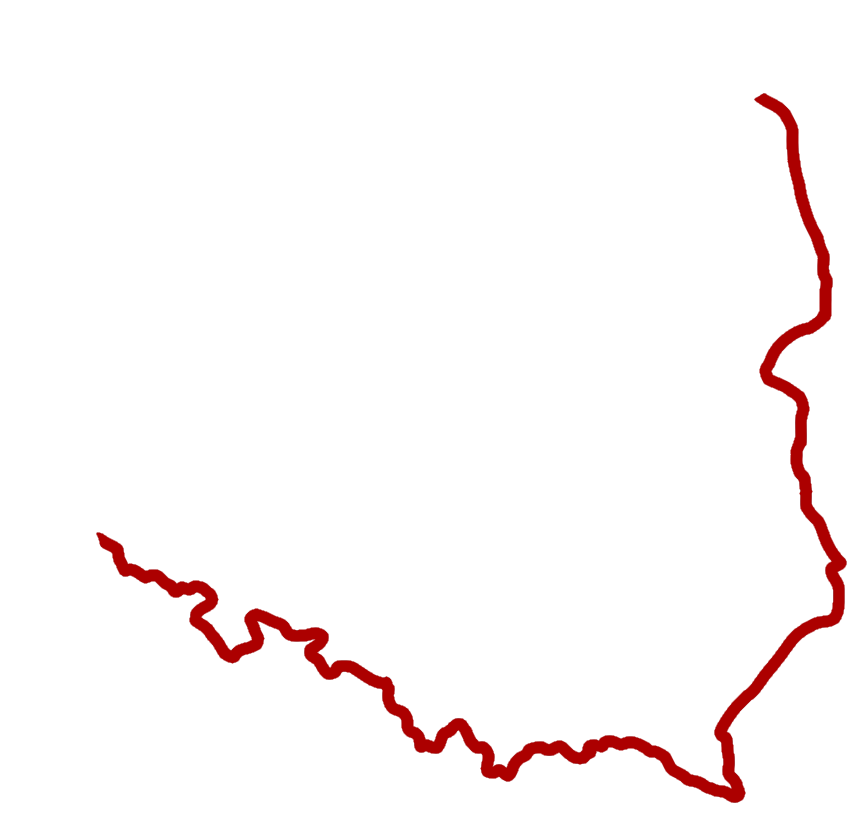
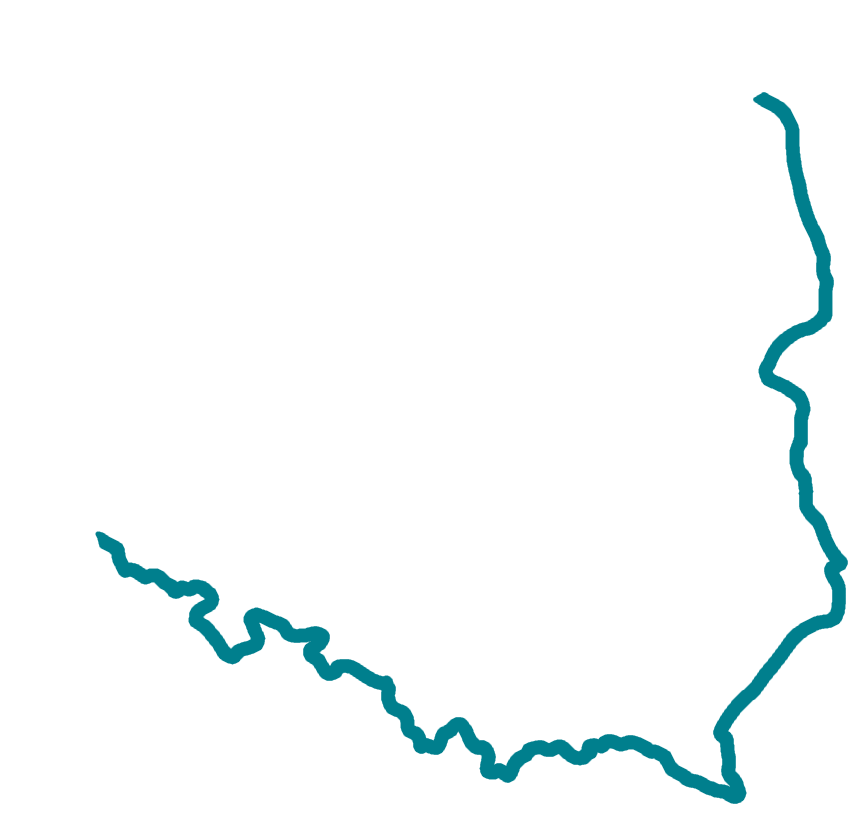
hello

Changed region(s): [[0.0915, 0.0921, 1.0, 1.0]]

diff --git a/src/views/Home.vue b/src/views/Home.vue
@@ -1,8 +1,77 @@
 <template>
   <div class="home">
-    <div class="itsme">DZIAŁA <ic icon="star" /></div>
-    <!-- <img alt="Vue logo" src="../assets/logo.png" /> -->
-    <!-- <HelloWorld msg="Welcome to Your Vue.js + TypeScript App" /> -->
+    <div class="hero">
+      <div class="herocont">
+        <div class="desccont">
+          <div class="desc">
+            <div class="ifflex">
+              <div class="red">Masz problemy {{}}</div>
+              <div class="red">z nauką?</div>
+            </div>
+            <div class="ifflex">
+              <div>
+                Tworzymy grupę świadczącą wątpliwej jakości korki w całej
+                Polsce. {{}}
+              </div>
+              <div>
+                Dla nas nauczenie Ciebie to jak napad na bank - codzienność.
+              </div>
+            </div>
+          </div>
+        </div>
+      </div>
+    </div>
+    <div class="check">
+      <div class="about">
+        <span class="aboutbigstudent">Jesteśmy grupą studentów</span>, których
+        łączy jeden wspólny cel - rozprowadzać edukację w każdej możliwej
+        ilości. Nie znajdziesz tu sztywniaków, którzy odhaczą lekcję i zaraz
+        przepuszczą twój hajs na piwo. Nauka jest dla nas czymś więcej niż
+        zarobkiem, jest pasją. Mamy luźną atmosferę i
+        <span class="remove">kompetentnych</span>
+        ludzi, którzy wiedzą jak się za naukę zabrać.
+      </div>
+      <div class="about right">
+        Większość z nas napisała nasze
+        <span class="aboutbig"> matury na ponad 90%</span>
+        dostając się na najbardziej oblegane uczelnie w Polsce. Politechnika
+        Warszawska, Uniwersytet Jagielloński czy AGH to tylko początek naszych
+        wpływów. Prędzej czy później obejmiemy działaniem całą Polskę i każdą
+        uczelnię.
+      </div>
+      <div class="about">
+        Nie tworzymy korporacji - my
+        <span class="aboutbig">działamy razem</span>. Możesz w każdej chwili się
+        do nas odezwać z prośbą o pomoc czy śmiesznym memem. Jesteśmy do twojej
+        dyspozycji. Nie jako smutni panowie w garniturach, których trzeba
+        traktować jak profesorów. Jesteśmy żywymi, młodymi i dynamicznymi
+        ludźmi, takimi jak ty.
+      </div>
+      <div class="about">
+        I co najważniejsze, nie zedrzemy z ciebie wszystkich pieniędzy. Nawet
+        mafia ma swoje zasady.
+      </div>
+      <!-- <div class="whatabout">
+        <div>To jak będzie?</div>
+      </div> -->
+
+      <!-- <div class="button">Sprawdź naszą ofertę</div>
+      <div class="button">Omów się na korki</div>
+      <div class="button">Poznaj naszych korepetytorów</div> -->
+    </div>
+    <div class="hero hero2">
+      <div class="herocont">
+        <div>
+          <div class="desccont big">
+            Nie czekaj, napisz do nas już dziś!
+            <div class="blocks">
+              <router-link to="/oferta">Omów się na korki</router-link>
+              <router-link to="/oferta">Sprawdź naszą ofertę</router-link>
+            </div>
+          </div>
+        </div>
+      </div>
+    </div>
   </div>
 </template>
 
@@ -17,12 +86,13 @@ export default defineComponent({
 })
 </script>
 
-<style lang="scss">
+<style lang="scss" scoped>
 @import '@/styles/index.scss';
 .home {
   display: flex;
   justify-content: center;
   align-items: center;
+  flex-direction: column;
   flex-grow: 1;
 }
 .itsme {
@@ -32,5 +102,150 @@ export default defineComponent({
   font-weight: 600;
   padding: 10px 20px;
   border-radius: 10px;
+}
+.hero {
+  background-image: url('~@/assets/hero.jpeg');
+  width: 100vw;
+  height: 60vh;
+  background-size: cover;
+  background-position: center;
+  &.hero2 {
+    background-image: url('~@/assets/hero2.jpg');
+  }
+}
+
+.herocont {
+  width: 100%;
+  height: 100%;
+  backdrop-filter: brightness(0.3);
+  display: flex;
+  justify-content: center;
+  align-items: center;
+}
+
+.desccont {
+  color: theme(light);
+  font-weight: 500;
+  text-transform: uppercase;
+  display: flex;
+  font-size: 25px;
+  max-width: 1000px;
+  padding: 30px 15px;
+  @media (max-width: 1000px) {
+    font-size: 15px;
+  }
+  &.big {
+    font-size: 35px;
+    flex-direction: column;
+    text-align: center;
+    @media (max-width: 1000px) {
+      font-size: 25px;
+    }
+  }
+  .red {
+    color: theme(main_light);
+    font-size: 85px;
+    font-weight: 700;
+    @media (max-width: 1000px) {
+      line-height: 30px;
+      font-size: 32px;
+    }
+  }
+}
+
+.check {
+  flex-grow: 1;
+  display: flex;
+  flex-direction: column;
+  justify-content: center;
+  margin: 30px 0;
+}
+
+.about {
+  max-width: 1100px;
+  font-size: 20.5px;
+  padding: 10px;
+  margin: 10px 0;
+  &.right {
+    @media (min-width: 1000px) {
+      text-align: right;
+    }
+  }
+  @media (max-width: 1000px) {
+    font-size: 15px;
+  }
+}
+.aboutbig,
+.aboutbigstudent {
+  font-size: 33px;
+  text-transform: uppercase;
+  font-weight: 500;
+}
+.aboutbigstudent {
+  @media (max-width: 1000px) {
+    font-size: 22px;
+  }
+}
+
+.aboutbig {
+  @media (max-width: 1000px) {
+    font-size: unset;
+  }
+}
+.remove {
+  text-decoration: line-through;
+}
+
+.whatabout {
+  text-align: right;
+  > div {
+    color: theme(main_light);
+    background: linear-gradient(90deg, theme(main_light), theme(main));
+    background-clip: text;
+    -webkit-text-fill-color: transparent;
+
+    display: inline-block;
+    font-weight: 600;
+    text-transform: uppercase;
+    font-size: 55px;
+    max-width: 1000px;
+    padding: 0px 0;
+    @media (max-width: 1000px) {
+      line-height: 40px;
+      margin-bottom: 10px;
+      font-size: 43px;
+    }
+  }
+}
+
+.blocks {
+  margin: 5px 0;
+}
+
+a {
+  display: block;
+  background: theme(main_light, 0.6);
+  color: theme(light);
+  padding: 15px 30px;
+  font-size: 25px;
+  text-transform: uppercase;
+  margin: 11px 0;
+  text-align: center;
+  border-radius: 10px;
+  font-weight: 500;
+  cursor: pointer;
+  @media (max-width: 1000px) {
+    font-size: 20px;
+    padding: 12px 15px;
+  }
+}
+
+.ifflex {
+  @media (max-width: 1000px) {
+    > div {
+      display: inline;
+    }
+    margin-bottom: 10px;
+  }
 }
 </style>

diff --git a/src/components/Offer/Blocks.vue b/src/components/Offer/Blocks.vue
@@ -5,6 +5,7 @@
       <div class="title" v-html="science.name" />
     </div>
   </div>
+  <!-- <div>Oferta przedmiotów technicznych</div> -->
   <div class="custom">
     <b>Potrzebujesz czegoś spoza oferty?</b> Algebra? Analiza? A może historia?
     Napisz do nas! Zobaczymy, co da się zrobić!
@@ -39,7 +40,7 @@ export default defineComponent({
   width: 155px;
   height: 145px;
   border-radius: 10px;
-  background: theme(main_dark);
+  background: theme(main);
   color: theme(light);
   display: flex;
   justify-content: space-evenly;
@@ -53,7 +54,7 @@ export default defineComponent({
   cursor: pointer;
 
   &:hover {
-    background: theme(main);
+    filter: brightness(1.12);
   }
 
   img {

diff --git a/src/components/Offer/CityInfo.vue b/src/components/Offer/CityInfo.vue
@@ -87,7 +87,7 @@ export default defineComponent({
     padding: 6px;
     margin-right: 8px;
     border-radius: 10px;
-    background: theme(main_dark);
+    background: theme(main);
     display: flex;
     justify-content: center;
     align-items: center;
@@ -103,7 +103,7 @@ export default defineComponent({
     }
 
     &:hover {
-      background: theme(main);
+      filter: brightness(1.1);
     }
   }
 }
@@ -149,7 +149,7 @@ export default defineComponent({
   -webkit-animation: AnimateCore 4s ease infinite;
   animation: AnimateCore 4s ease infinite;
   &:hover {
-    box-shadow: 0px 0px 4px #00647d;
+    box-shadow: 0px 0px 8px #00647d;
   }
 }
 </style>

diff --git a/src/components/Shared/Navbar/Index.vue b/src/components/Shared/Navbar/Index.vue
@@ -51,7 +51,7 @@ export default defineComponent({
 @import '@/styles/index.scss';
 nav {
   padding: 10px 20px;
-  background: theme(light);
+  background: theme(black);
   display: flex;
   justify-content: center;
   height: 80px;
@@ -99,15 +99,15 @@ ul {
   display: flex;
   list-style: none;
   font-size: 18px;
+  a,
+  li {
+    color: theme(light) !important;
+  }
   @media (max-width: 1000px) {
     flex-direction: column;
     justify-content: center;
     align-items: center;
     padding-inline-start: 0;
-    a,
-    li {
-      color: theme(light) !important;
-    }
   }
   li {
     margin: 0 5px;

diff --git a/src/components/Offer/Hello.vue b/src/components/Offer/Hello.vue
@@ -23,12 +23,12 @@ export default defineComponent({})
   display: flex;
   font-size: 20px;
   max-width: 1000px;
-  margin: 30px 0;
+  margin: 20px 0;
   @media (max-width: 1000px) {
     font-size: 18px;
   }
   .red {
-    background: linear-gradient(30deg, theme(main_dark), theme(dark));
+    background: linear-gradient(30deg, theme(main), theme(main_dark));
     background-clip: text;
     -webkit-text-fill-color: transparent;
     font-size: 43px;

diff --git a/src/styles/theme.scss b/src/styles/theme.scss
@@ -9,8 +9,9 @@
 }
 
 $theme: (
-  main: #d30000,
-  main_dark: #ac0000,
+  main: #007f8d,
+  main_dark: #00647d,
+  main_light: #00b0c0,
   // sky: #00afdb,
   // aqua: #00af97,
   // green: #00ad00,
@@ -22,5 +23,5 @@ $theme: (
   gray: #c6cbcc,
   dark_gray: #7c888c,
   dark: #28353a,
-  black: #262626,
+  black: #1b2023,
 );

diff --git a/src/components/Shared/Navbar/Logo.vue b/src/components/Shared/Navbar/Logo.vue
@@ -19,8 +19,8 @@ export default defineComponent({})
     margin-right: 5px;
   }
 
-  color: theme(light);
-  background: theme(dark);
+  color: theme(dark);
+  background: theme(light);
   font-weight: 600;
   padding: 5px 10px;
   border-radius: 5px;
